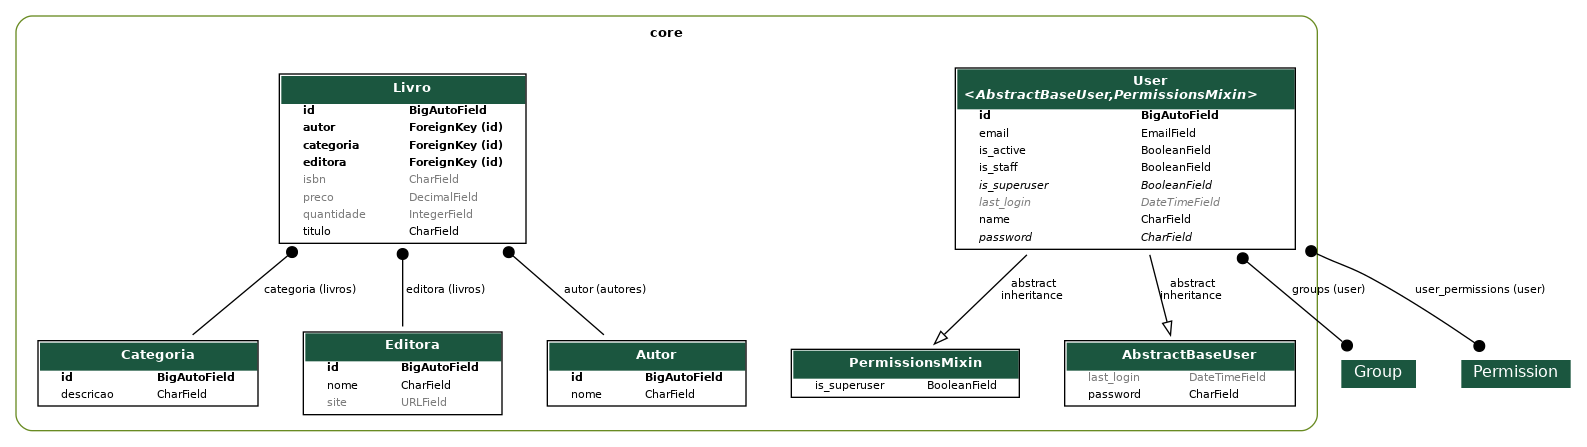
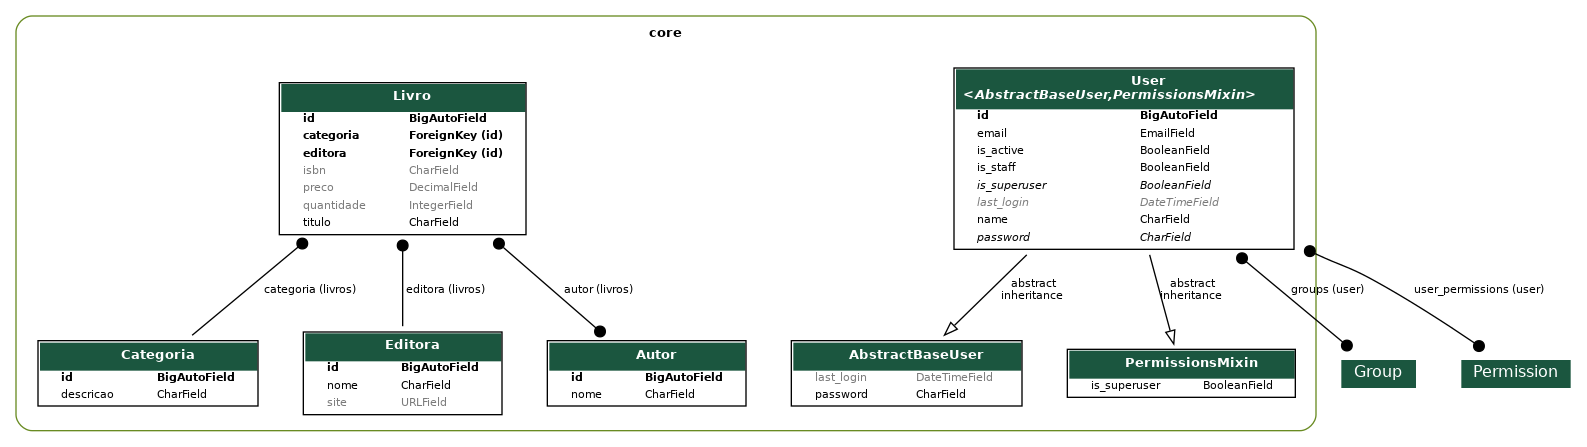
Criação da tabela livro_autor

diff --git a/core/models/livro.py b/core/models/livro.py
@@ -10,7 +10,7 @@ class Livro(models.Model):
     preco = models.DecimalField(max_digits=7, decimal_places=2, default=0, blank=True, null=True)
     categoria = models.ForeignKey(Categoria, on_delete=models.PROTECT, related_name="livros", null=False, blank=False)
     editora = models.ForeignKey(Editora, on_delete=models.PROTECT, related_name="livros")
-    autor = models.ForeignKey(Autor, on_delete=models.PROTECT, related_name="autores")
+    autor = models.ManyToManyField(Autor, related_name="livros")
 
     def __str__(self):
-        return f"(id {self.id}) {self.titulo} R${self.preco} | informações adicionais: Categoria: {self.categoria}, Editora: {self.editora}, Autor:{self.autor}, (Qnt:{self.quantidade})|"
+        return f"(id {self.id}) {self.titulo} R${self.preco} | informações adicionais: Categoria: {self.categoria}, Editora: {self.editora}, Autores:{self.autor} (Qnt:{self.quantidade})|"

diff --git a/core/migrations/0014_alter_livro_autor.py b/core/migrations/0014_alter_livro_autor.py
@@ -1,0 +1,18 @@
+# Generated by Django 5.0.2 on 2024-08-05 14:02
+
+from django.db import migrations, models
+
+
+class Migration(migrations.Migration):
+
+    dependencies = [
+        ("core", "0013_alter_autor_options"),
+    ]
+
+    operations = [
+        migrations.AlterField(
+            model_name="livro",
+            name="autor",
+            field=models.ManyToManyField(blank=True, null=True, related_name="autores", to="core.autor"),
+        ),
+    ]

diff --git a/core/migrations/0015_alter_livro_autor.py b/core/migrations/0015_alter_livro_autor.py
@@ -1,0 +1,18 @@
+# Generated by Django 5.0.2 on 2024-08-05 14:03
+
+from django.db import migrations, models
+
+
+class Migration(migrations.Migration):
+
+    dependencies = [
+        ("core", "0014_alter_livro_autor"),
+    ]
+
+    operations = [
+        migrations.AlterField(
+            model_name="livro",
+            name="autor",
+            field=models.ManyToManyField(related_name="autores", to="core.autor"),
+        ),
+    ]

diff --git a/core/migrations/0016_alter_livro_autor.py b/core/migrations/0016_alter_livro_autor.py
@@ -1,0 +1,18 @@
+# Generated by Django 5.0.2 on 2024-08-05 14:30
+
+from django.db import migrations, models
+
+
+class Migration(migrations.Migration):
+
+    dependencies = [
+        ("core", "0015_alter_livro_autor"),
+    ]
+
+    operations = [
+        migrations.AlterField(
+            model_name="livro",
+            name="autor",
+            field=models.ManyToManyField(related_name="livros", to="core.autor"),
+        ),
+    ]

diff --git a/core/migrations/0011_livro_autor.py b/core/migrations/0011_livro_autor.py
@@ -1,0 +1,18 @@
+# Generated by Django 5.0.2 on 2024-08-05 14:00
+
+from django.db import migrations, models
+
+
+class Migration(migrations.Migration):
+
+    dependencies = [
+        ("core", "0010_remove_livro_autor"),
+    ]
+
+    operations = [
+        migrations.AddField(
+            model_name="livro",
+            name="autor",
+            field=models.ManyToManyField(related_name="autor", to="core.autor"),
+        ),
+    ]

diff --git a/core/migrations/0012_alter_livro_autor.py b/core/migrations/0012_alter_livro_autor.py
@@ -1,0 +1,18 @@
+# Generated by Django 5.0.2 on 2024-08-05 14:00
+
+from django.db import migrations, models
+
+
+class Migration(migrations.Migration):
+
+    dependencies = [
+        ("core", "0011_livro_autor"),
+    ]
+
+    operations = [
+        migrations.AlterField(
+            model_name="livro",
+            name="autor",
+            field=models.ManyToManyField(related_name="autores", to="core.autor"),
+        ),
+    ]

diff --git a/core/migrations/0013_alter_autor_options.py b/core/migrations/0013_alter_autor_options.py
@@ -1,0 +1,17 @@
+# Generated by Django 5.0.2 on 2024-08-05 14:01
+
+from django.db import migrations
+
+
+class Migration(migrations.Migration):
+
+    dependencies = [
+        ("core", "0012_alter_livro_autor"),
+    ]
+
+    operations = [
+        migrations.AlterModelOptions(
+            name="autor",
+            options={"verbose_name_plural": "Autores"},
+        ),
+    ]

diff --git a/core/migrations/0010_remove_livro_autor.py b/core/migrations/0010_remove_livro_autor.py
@@ -1,0 +1,17 @@
+# Generated by Django 5.0.2 on 2024-08-05 13:44
+
+from django.db import migrations
+
+
+class Migration(migrations.Migration):
+
+    dependencies = [
+        ("core", "0009_livro_autor"),
+    ]
+
+    operations = [
+        migrations.RemoveField(
+            model_name="livro",
+            name="autor",
+        ),
+    ]

diff --git a/core/views/livro.py b/core/views/livro.py
@@ -5,5 +5,5 @@ from core.serializers import LivroSerializer
 
 
 class LivroViewSet(ModelViewSet):
-    queryset = Livro.objects.all()
+    queryset = Livro.objects.order_by("titulo")
     serializer_class = LivroSerializer

diff --git a/core/models/autor.py b/core/models/autor.py
@@ -6,3 +6,6 @@ class Autor(models.Model):
 
     def __str__(self):
         return f"{self.nome.upper()} ({self.id})"
+
+    class Meta:
+        verbose_name_plural = "Autores"
